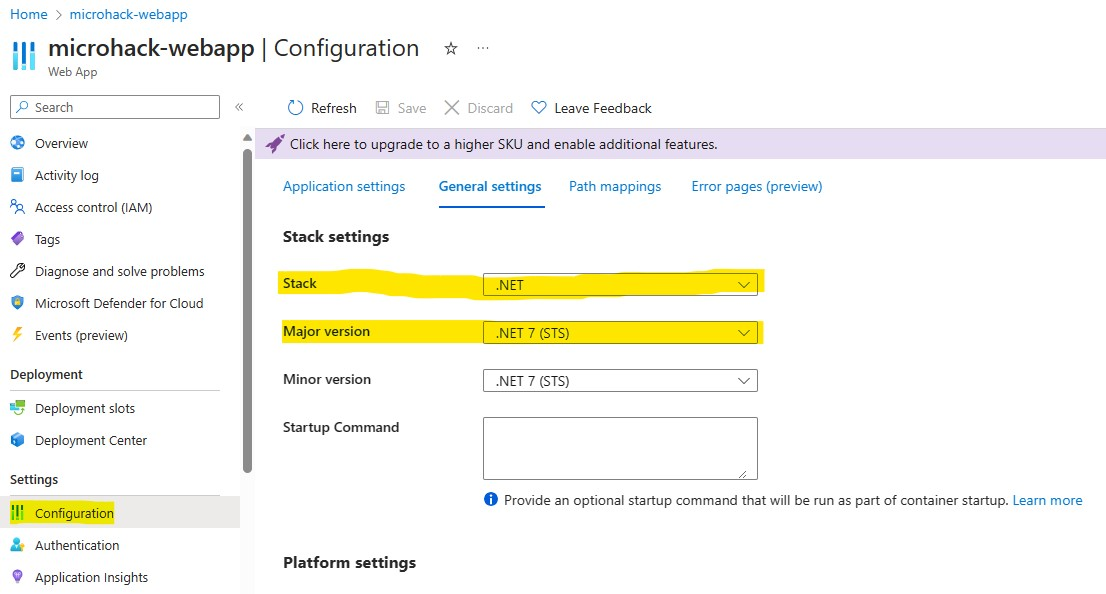
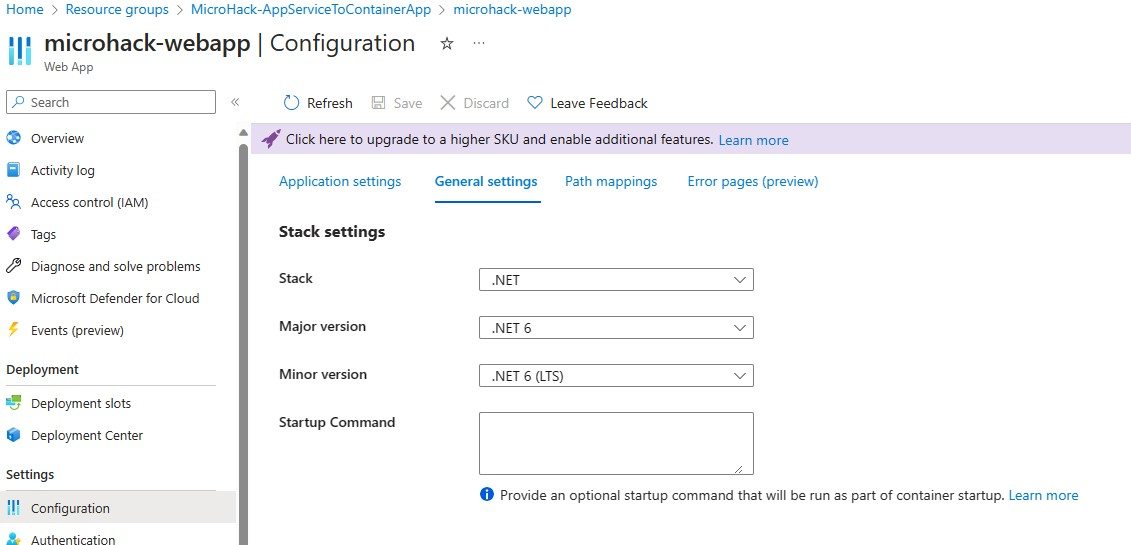
Updated Challenge 1

diff --git a/03-Azure/01-01-App Innovation/01_AppServicetoContainerApps/walkthrough/challenge-2/solution.md b/03-Azure/01-01-App Innovation/01_AppServicetoContainerApps/walkthrough/challenge-2/solution.md
@@ -37,7 +37,7 @@ Rename the workflow YAML file to *pipeline-containerapp.yml*. As you can see, th
 * From line 9 onwards the jobs are defined and steps are defined.
 * Line 12 tells GitHub to run the workflow on a Ubuntu Linux machine with the latest available version
 * Line 15 checkous the repository
-* Line 16 to 20 set up the required .NET tools for the workflow. Change the *dotnet-version* in line 19 to *7.x*
+* Line 16 to 20 set up the required .NET tools for the workflow. Change the *dotnet-version* in line 19 to *6.x*
 * Line 22 performs the build
 * Line 23 performs some automated tests. This line can be removed for now since this is not part of this MicroHack.
 
@@ -63,7 +63,7 @@ Feel free to name all steps and format the code as you like. Your workflow shoul
           - name: Set up .NET Core
             uses: actions/setup-dotnet@v1
             with:
-              dotnet-version: '7.x'
+              dotnet-version: '6.x'
               include-prerelease: true
     
           - name: Restore dependencies

diff --git a/03-Azure/01-01-App Innovation/01_AppServicetoContainerApps/walkthrough/challenge-1/solution.md b/03-Azure/01-01-App Innovation/01_AppServicetoContainerApps/walkthrough/challenge-1/solution.md
@@ -6,7 +6,7 @@ Duration: 30 minutes
 
 * In which framework and version is the application written?
 
-    The application was written in C# in .NET version 7. You can find this information in the Web App `microhack-webapp-xyz` resource in the Azure portal in the `Configuration` tab under `General Settings`:
+    The application was written in C# in .NET version 6. You can find this information in the Web App `microhack-webapp-xyz` resource in the Azure portal in the `Configuration` tab under `General Settings`:
     
     ![image](./img/challenge-1-runtimestack.jpg)
 
